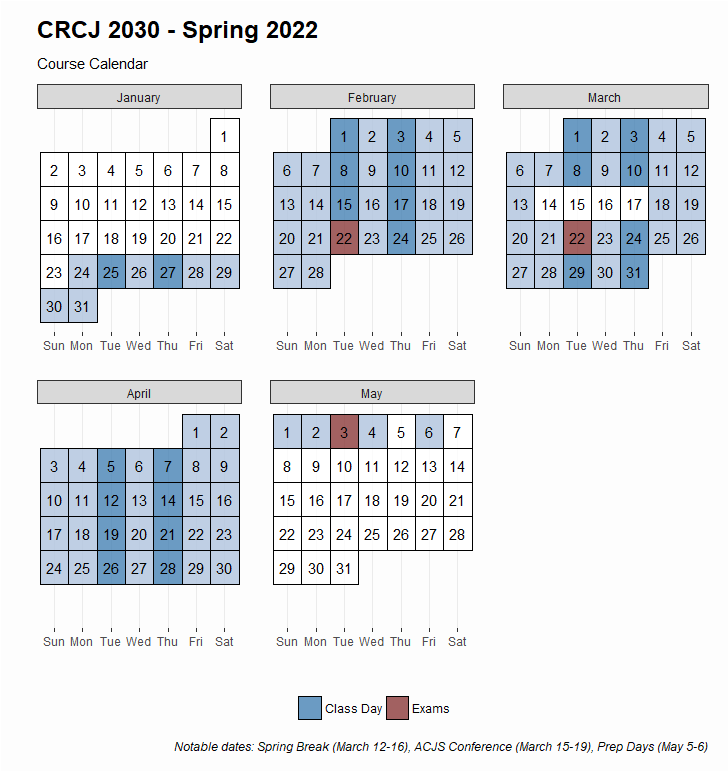
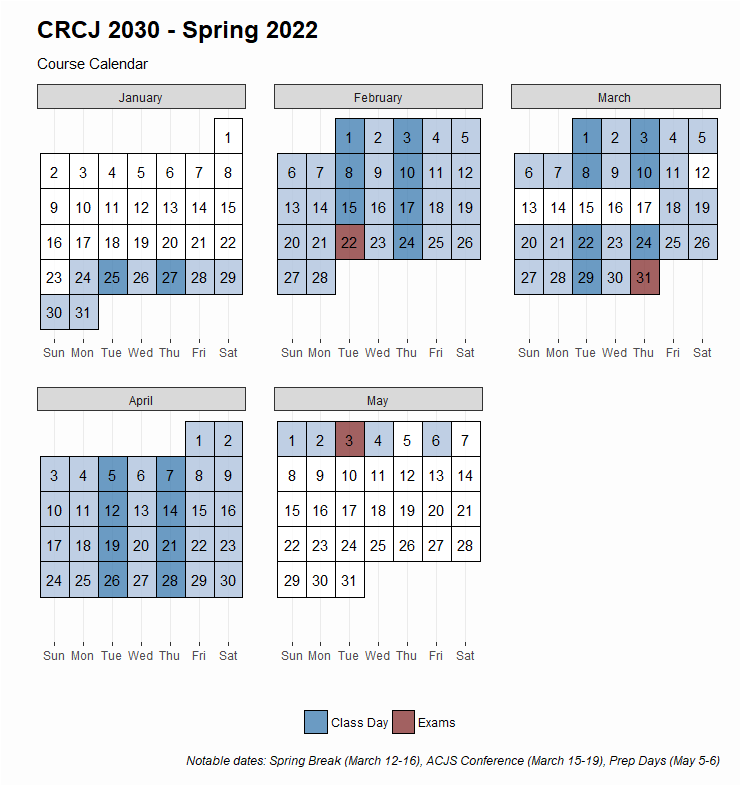
update schedule

diff --git a/content/courses/crcj2030/course_schedule.md b/content/courses/crcj2030/course_schedule.md
@@ -32,9 +32,9 @@ weight: 2
 
 ## Week 3: Policing in the American Context
 
-* 2/8: W&S Chapter 2
+* 2/8: W&S Chapter 2; [*Kids’ perceptions of police fall as they age – for Black children the decline starts earlier and is constant*](https://theconversation.com/kids-perceptions-of-police-fall-as-they-age-for-black-children-the-decline-starts-earlier-and-is-constant-145511)
 
-* 2/10: W&S Chapter 2; [*Kids’ perceptions of police fall as they age – for Black children the decline starts earlier and is constant*](https://theconversation.com/kids-perceptions-of-police-fall-as-they-age-for-black-children-the-decline-starts-earlier-and-is-constant-145511)
+* 2/10: W&S Chapter 2
 
 ## Week 4: Police Organizations
 
@@ -44,9 +44,9 @@ weight: 2
 
 ## Week 5: Becoming a Cop
 
-* 2/22: **EXAM 1**
+* 2/22: W&S Chapter 4; [*Arresting the Recruitment Crisis*](https://www.city-journal.org/police-departments-recruitment-crisis)
 
-* 2/24: W&S Chapter 4; [*Arresting the Recruitment Crisis*](https://www.city-journal.org/police-departments-recruitment-crisis)
+* 2/24: **EXAM 1**
 
 ## Week 6: Police Subculture
 
@@ -56,7 +56,7 @@ weight: 2
 
 ## Week 7: Police Discretion & Behavior
 
-* 3/8: W&S Chapter 6
+* 3/8: W&S Chapter 6; [*Probable Causation Podcast*, Ep. 44 - Arianna Ornaghi](https://www.probablecausation.com/podcasts/episode-44-arianna-ornaghi)
 
 * 3/10: W&S Chapter 6
 
@@ -66,17 +66,17 @@ weight: 2
 
 * 3/17: ACJS Conference - No class
 
-## Week 9: Community Policing
+## Week 9: Policing in the Modern Era
 
-* 3/22: **EXAM 2**
+* 3/22: W&S Chapter 8; [*Biden's plan to spend billions on community policing is bad policy*](https://thehill.com/opinion/white-house/563276-bidens-plan-to-spend-billions-on-community-policing-is-bad-policy)
 
-* 3/24: W&S Chapter 8; [*Biden's plan to spend billions on community policing is bad policy*](https://thehill.com/opinion/white-house/563276-bidens-plan-to-spend-billions-on-community-policing-is-bad-policy)
+* 3/24: W&S Chapter 9; [*Necessary but Not Sufficient: The Police Role in Reducing Violence*](https://www.policechiefmagazine.org/necessary-but-not-sufficient/?ref=e6b395be13bf27a03cf9a63a7c18aced)
 
 ## Week 10: Policing in the Modern Era
 
-* 3/29: W&S Chapter 9
+* 3/29: W&S Chapter 9; [*When cities add cops, Black residents could have the most to gain – and the most to lose*](https://www.niskanencenter.org/when-cities-add-cops-black-residents-could-have-the-most-to-gain-and-the-most-to-lose/)
 
-* 3/31: W&S Chapter 9; [*When cities add cops, Black residents could have the most to gain – and the most to lose*](https://www.niskanencenter.org/when-cities-add-cops-black-residents-could-have-the-most-to-gain-and-the-most-to-lose/)
+* 3/31: **EXAM 2**
 
 ## Week 11: Policing and the Law
 
@@ -86,7 +86,7 @@ weight: 2
 
 ## Week 12: Civil Liability and Accountability
 
-* 4/12: W&S Chapter 11
+* 4/12: W&S Chapter 11; [*How to Actually Fix America’s Police*](https://www.theatlantic.com/ideas/archive/2020/06/how-actually-fix-americas-police/612520/)
 
 * 4/14: W&S Chapter 11; [*The concrete effects of body-worn cameras on police accountability*](https://theconversation.com/the-concrete-effects-of-body-cameras-on-police-accountability-171460)
 
@@ -108,6 +108,6 @@ weight: 2
 
 * 5/5: *Study Day - No class*
 
-## Week 16: 
+## Week 16: Final Exam
 
 * ***Exam 3 date to be determined***
